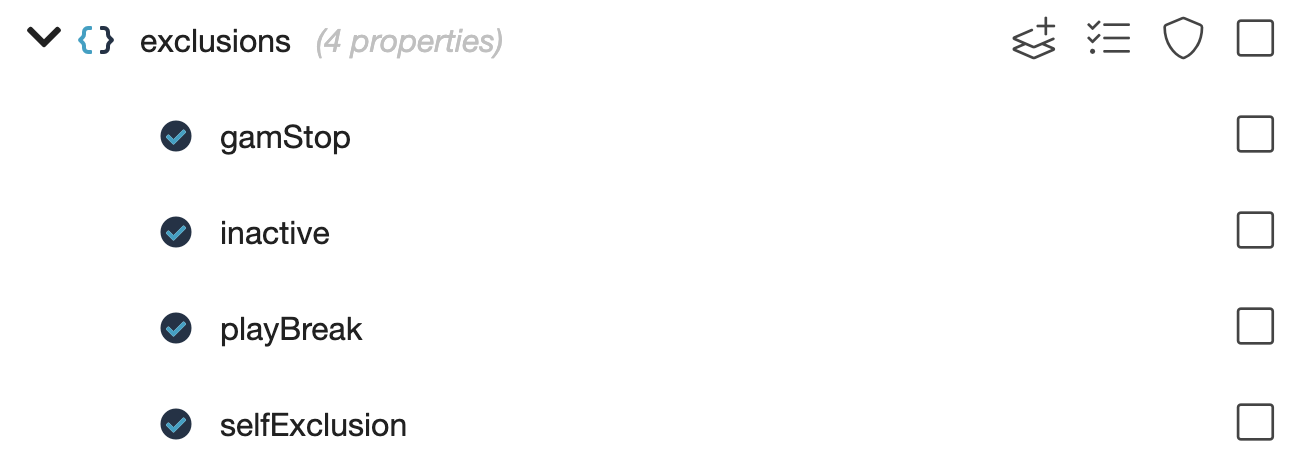
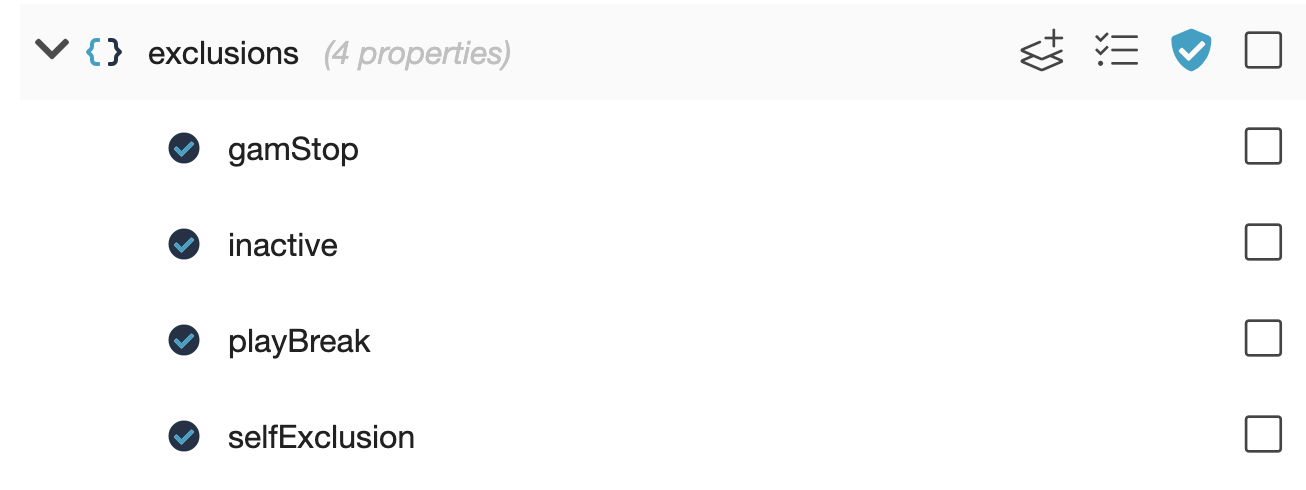
add details for gaming exclusions, protected

diff --git a/docs/schema/gaming.md b/docs/schema/gaming.md
@@ -30,4 +30,9 @@ campaigns being blocked)
 
 ![Add Play Break](/img/gaming/add-playBreak.png)
 
+### Ensure the Exclusions is Protected
+
+So that the Exclusions block can only be updated through the authenticated 
+REST API and not from a JS Tag, make sure you tick the **protected** box.
+
 ![List of Exclusions](/img/gaming/list-exclusions.png)
